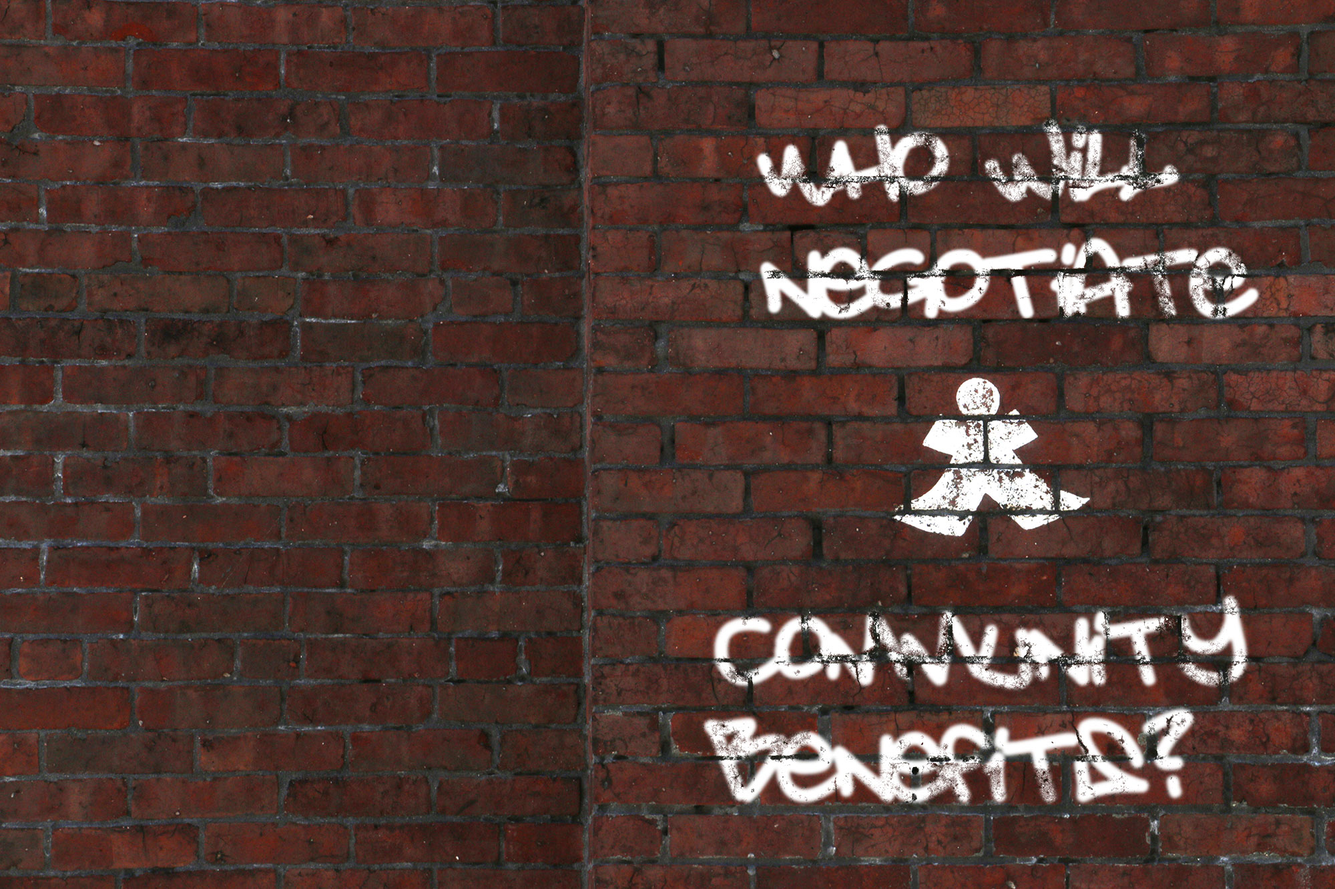
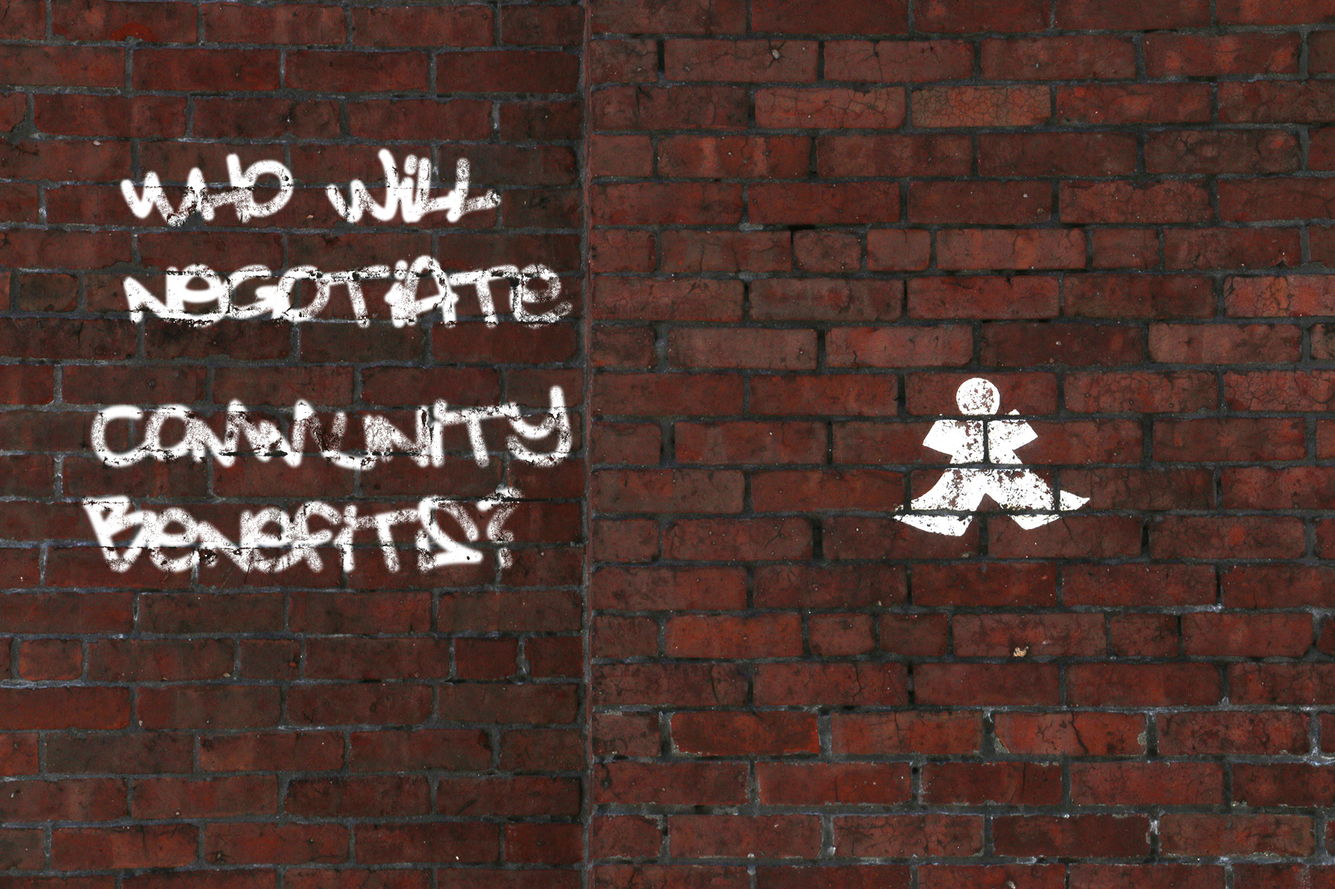
added redev text slides

diff --git a/js/script.js b/js/script.js
@@ -741,11 +741,11 @@ $w.on("scroll", function(e){
     //redev tweens
 var redevtween1 = TweenMax.staggerFromTo('#redev #traintext1', 4, 
     { 
-      right: 125 + "%"
+      left: 125 + "%"
     }, 
     {
-      right: 50 + "%",
-      delay: 20,
+      left: 50 + "%",
+      delay: 25,
       ease: Cubic.easeOut
     
     });
@@ -762,10 +762,10 @@ var redevtween1 = TweenMax.staggerFromTo('#redev #traintext1', 4,
 
     var redevtween3 = TweenMax.staggerFromTo('#redev #traintext2', 4, 
     { 
-      left: 125 + "%"
+      right: 125 + "%"
     }, 
     {
-      left: 50 + "%",
+      right: 50 + "%",
       delay: 20,
       ease: Cubic.easeOut
     });
@@ -782,10 +782,10 @@ var redevtween1 = TweenMax.staggerFromTo('#redev #traintext1', 4,
 
     var redevtween5 = TweenMax.staggerFromTo('#redev #traintext3', 4, 
     {  
-      right: 125 + "%"
+      left: 125 + "%"
     }, 
     {
-      right: 50 + "%",
+      left: 50 + "%",
       delay: 20,
       ease: Cubic.easeOut  
     }); 
@@ -802,47 +802,47 @@ var redevtween1 = TweenMax.staggerFromTo('#redev #traintext1', 4,
 
 
 
-    var scene6a = new ScrollScene({triggerElement: '#redev', duration: 480000}) 
+    var scene6a = new ScrollScene({triggerElement: '#redev', duration: 550000}) 
       .setPin("#redev")
       .addTo(controller2);
     
-    var scene6b = new ScrollScene({triggerElement: '#redev', duration: 25000}) 
+    var scene6b = new ScrollScene({triggerElement: '#redev', duration: 50000}) 
       .setTween(redevtween1)
       .addTo(controller2);
     
-    var scene6c = new ScrollScene({triggerElement: '#redev', duration: 125000}) 
+    var scene6c = new ScrollScene({triggerElement: '#redev', duration: 150000}) 
       .setTween(redevtween2)
       .addTo(controller2);
 
-    var scene6d = new ScrollScene({triggerElement: '#redev', duration: 160000}) 
+    var scene6d = new ScrollScene({triggerElement: '#redev', duration: 185000}) 
       .setTween(redevtween3)
       .addTo(controller2);
         
-    var scene6e = new ScrollScene({triggerElement: '#redev', duration: 260000}) 
+    var scene6e = new ScrollScene({triggerElement: '#redev', duration: 285000}) 
       .setTween(redevtween4)
       .addTo(controller2);
 
-    var scene6f = new ScrollScene({triggerElement: '#redev', duration: 305000}) 
+    var scene6f = new ScrollScene({triggerElement: '#redev', duration: 315000}) 
       .setTween(redevtween5)
       .addTo(controller2);
 
-    var scene6g = new ScrollScene({triggerElement: '#redev', duration: 395000}) 
+    var scene6g = new ScrollScene({triggerElement: '#redev', duration: 455000}) 
       .setTween(redevtween6)
       .addTo(controller2);
 
     var playertween3 = TweenMax.staggerFromTo('#redevslide #playicon3', 4, 
     { 
       right: 125 + "%", 
-      bottom: 45 + "%"
+      bottom: 20 + "%"
     }, 
     {
       right: 70 + "%",
-      bottom: 45 + "%",
+      bottom: 20 + "%",
       delay: 15,
       ease: Cubic.easeOut
     });
 
-    var scene7a = new ScrollScene({triggerElement: '#redevslide', duration: 60000}) 
+    var scene7a = new ScrollScene({triggerElement: '#redevslide', duration: 100000}) 
       .setPin("#redevslide")
       .addTo(controller2);
 
@@ -851,7 +851,7 @@ var redevtween1 = TweenMax.staggerFromTo('#redev #traintext1', 4,
       .addTo(controller2);
 
 
-    var scene9 = new ScrollScene({triggerElement: '#tour1', duration: 5000}) 
+    var scene9 = new ScrollScene({triggerElement: '#tour1', duration: 10000}) 
           .setPin("#tour1")
           .addTo(controller2);
 

diff --git a/index.html b/index.html
@@ -254,25 +254,22 @@
     
     <article class="fullheight" id="redev">
       <div class="panelpic">
-          <img id= "traintext1" class="traintext" src="images/header/traintext1.png" alt="text image">  
+          <img id= "traintext1" class="traintext" src="images/header/cbaslidetext1.png" alt="text image">  
         </div>       
        <div class="fullwidth"> 
           <img id="fillsurvey" class="slidepic17" src="images/change/fillsurvey.jpg">  
       </div>
         <div class="panelpic">
-          <img id= "traintext2" class="traintext" src="images/header/traintext2.png" alt="text image">  
+          <img id= "traintext2" class="traintext" src="images/header/cbaslidetext2.png" alt="text image">  
         </div> 
       <div class="fullwidth"> 
           <img id="gandt" class="slidepic22" src="images/change/gandt.jpg">  
       </div>
         <div class="panelpic">
-          <img id= "traintext3" class="traintext" src="images/header/traintext3.png" alt="text image">  
+          <img id= "traintext3" class="traintext" src="images/header/cbaslidetext3.png" alt="text image">  
         </div> 
       <div class="fullwidth"> 
           <img id="uubanner2" class="slidepic21" src="images/change/uubanner2.jpg">  
-      </div>
-      <div class="fullwidth"> 
-          <img id="everyones" class="slidepic20" src="images/change/everyonesedit.png">  
       </div>
     </article>
     <article class="fullheight" id="redevslide">
